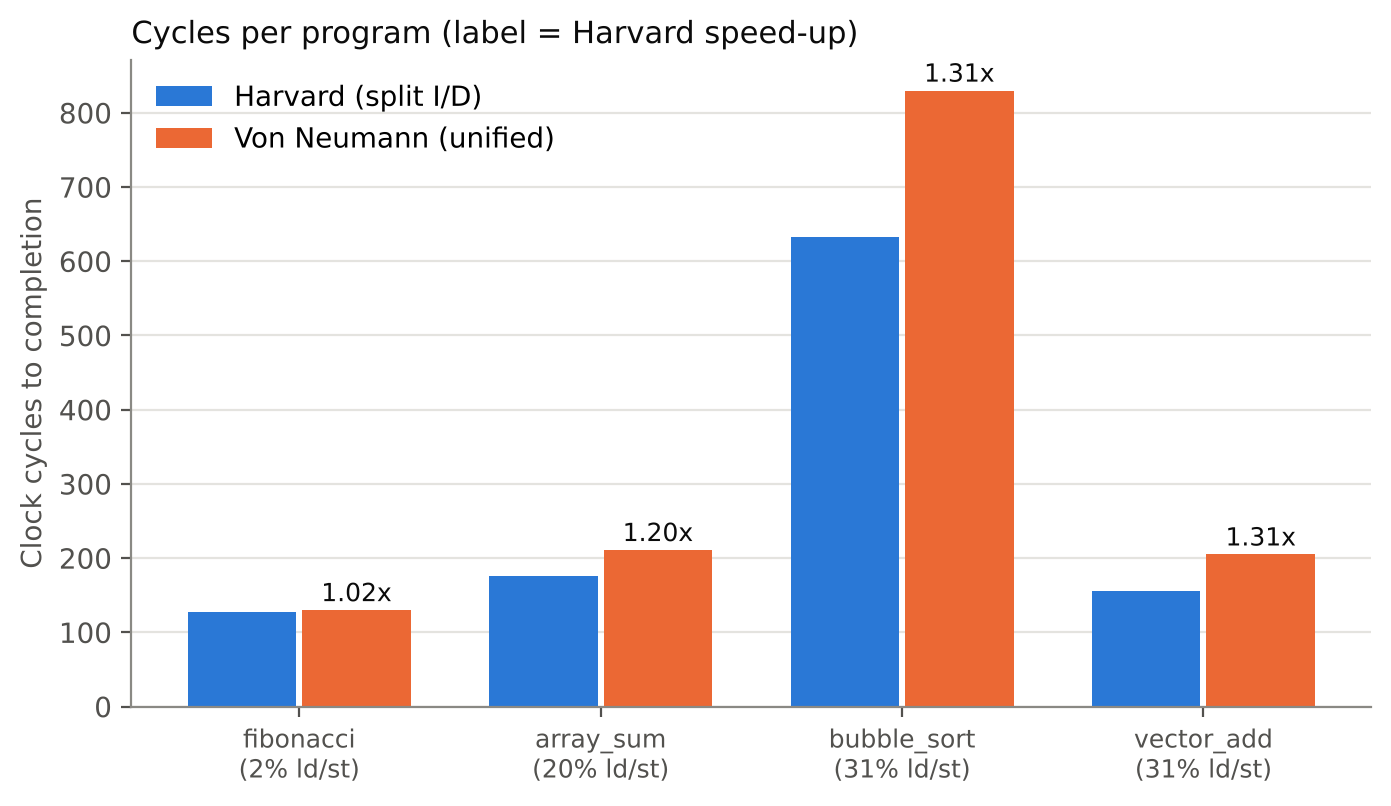
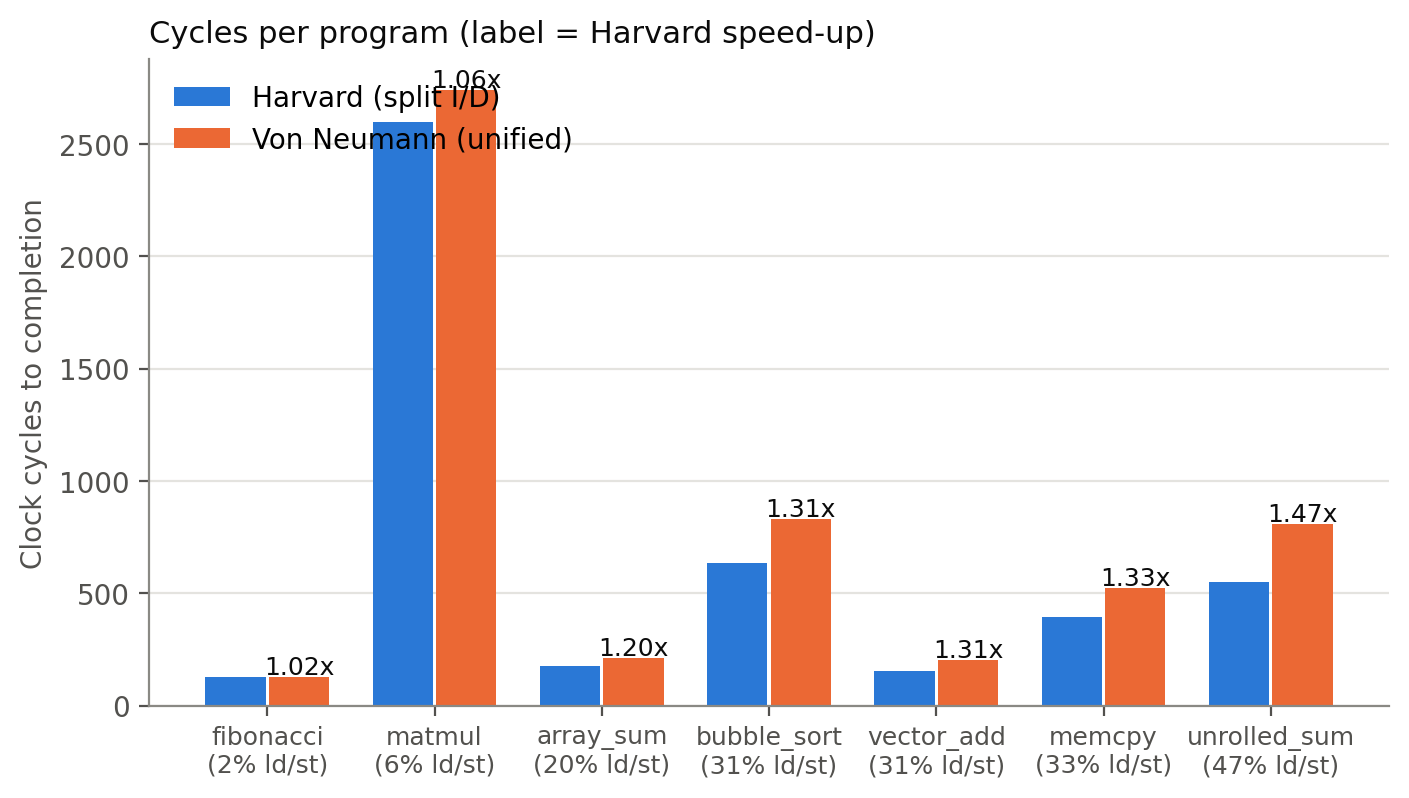
Add Phase 2 figures and waveform plots

diff --git a/docs/make_figures_phase2.py b/docs/make_figures_phase2.py
@@ -1,0 +1,293 @@
+#!/usr/bin/env python3
+"""make_figures_phase2.py - figures for the Phase II memory-hierarchy study.
+
+    python3 sim/run_hier.py && python3 docs/make_figures_phase2.py
+
+Outputs (docs/figures/):
+    block_hierarchy.png      modified-Harvard hierarchy vs unified-cache baseline
+    cpi_vs_latency.png       mean CPI of the 4 organisations vs main-memory latency
+    stall_breakdown.png      where the cycles go (LAT=8), unified vs split
+    l1_size_sweep.png        miss rate + CPI vs L1 capacity
+    line_size_sweep.png      miss rate + CPI vs line size (fixed capacity)
+    wave_hierarchy.png       split-L1 waveform: refills, write-buffer drain, overlap
+"""
+import csv
+import math
+import os
+from collections import defaultdict
+
+import matplotlib
+matplotlib.use("Agg")
+import matplotlib.pyplot as plt
+from matplotlib.patches import FancyBboxPatch
+from vcdvcd import VCDVCD
+
+from make_figures import box, arrow, BLUE, ORANGE, INK, INK2, MUTED, GRID, FIG, ROOT
+
+TEAL, PURPLE = "#1f9e89", "#8a5cc2"
+plt.rcParams["text.parse_math"] = False          # labels contain "I$" / "D$"
+ARCH = {   # key: (label, colour, marker)
+    "split":      ("Split L1 I$ + D$ (modified Harvard)", BLUE, "o"),
+    "unified":    ("Unified L1 cache (Von Neumann)", ORANGE, "s"),
+    "split_flat": ("Split ports, no cache", TEAL, "^"),
+    "vn_flat":    ("Unified port, no cache", PURPLE, "D"),
+}
+OUT = os.path.join(ROOT, "sim", "out", "hier")
+rows = list(csv.DictReader(open(os.path.join(ROOT, "docs", "results_hier.csv"))))
+for r in rows:
+    for k, v in r.items():
+        try:
+            r[k] = int(v)
+        except ValueError:
+            try:
+                r[k] = float(v)
+            except ValueError:
+                pass
+PROGS = sorted({r["program"] for r in rows})
+
+
+def gmean(xs):
+    return math.exp(sum(math.log(x) for x in xs) / len(xs))
+
+
+def pick(arch, lat, sets, line):
+    return [r for r in rows if r["arch"] == arch and r["lat"] == lat and r["sets"] == sets
+            and r["line"] == line]
+
+
+def style(ax, title, ylabel, xlabel):
+    ax.spines[["top", "right"]].set_visible(False)
+    ax.yaxis.grid(True, color=GRID, lw=0.8)
+    ax.set_axisbelow(True)
+    ax.set_title(title, loc="left", fontsize=11, color=INK)
+    ax.set_ylabel(ylabel)
+    ax.set_xlabel(xlabel)
+
+
+def save(fig, name):
+    fig.savefig(os.path.join(FIG, name), dpi=200, bbox_inches="tight", facecolor="white")
+    plt.close(fig)
+
+
+# --------------------------------------------------------------- block diagram
+def block_hierarchy():
+    fig, ax = plt.subplots(figsize=(10, 6.2))
+    ax.set_xlim(0, 12.6); ax.set_ylim(0, 7.8); ax.axis("off")
+    # ---- (a) proposed
+    ax.text(0.2, 7.5, "(a) Proposed: modified Harvard hierarchy (modharvard_top.v)",
+            fontsize=10, fontweight="bold", color=BLUE)
+    box(ax, 0.3, 4.5, 2.2, 2.4, "cpu_core", "RV32I, single-cycle", fc="#f4f7fc", ec=BLUE)
+    box(ax, 3.4, 5.9, 2.6, 1.0, "L1 I-cache", "256 B, read-only", fc="#eef4fc", ec=BLUE)
+    box(ax, 3.4, 4.5, 2.6, 1.0, "Decoder + R/W ctrl", "address map")
+    box(ax, 6.8, 4.5, 2.2, 1.0, "L1 D-cache", "256 B, WT + buffer", fc="#eef4fc", ec=BLUE)
+    box(ax, 6.8, 3.2, 2.2, 0.9, "MMIO", "uncached")
+    box(ax, 9.6, 5.25, 1.3, 1.0, "Arbiter", "I first")
+    box(ax, 11.2, 4.95, 1.3, 1.6, "Main", "memory")
+    ax.text(11.85, 4.75, "8 KB, LAT", ha="center", fontsize=8, color=INK2)
+    arrow(ax, 2.5, 6.4, 3.4, 6.4, "I-port", BLUE, both=True)
+    arrow(ax, 2.5, 5.0, 3.4, 5.0, "D-port", INK2, both=True)
+    arrow(ax, 6.0, 5.0, 6.8, 5.0, "", INK2, both=True)
+    ax.plot([4.7, 4.7], [4.5, 3.65], color=INK2, lw=1.6)
+    arrow(ax, 4.7, 3.65, 6.8, 3.65, "0x20xx", INK2, off=(0, 0.04))
+    arrow(ax, 6.0, 6.4, 9.6, 6.0, "I miss: line refill", BLUE, both=True, off=(0, 0.08))
+    arrow(ax, 9.0, 5.0, 9.6, 5.5, "", INK2, both=True)
+    ax.text(9.05, 4.65, "D miss /\nstore drain", fontsize=8, color=INK2, va="top")
+    arrow(ax, 10.9, 5.75, 11.2, 5.75, "", INK, both=True, lw=2.2)
+    ax.text(0.3, 2.75, "Hits in both L1s happen in the SAME cycle; instruction and data traffic meet "
+            "only at the shared level, on misses and write-buffer drains.", fontsize=8.5, color=INK)
+    # ---- (b) baseline
+    ax.text(0.2, 2.25, "(b) Baseline: Von Neumann hierarchy (unicache_top.v)",
+            fontsize=10, fontweight="bold", color=ORANGE)
+    box(ax, 0.3, 0.2, 2.2, 1.7, "cpu_core", "same RTL", fc="#fdf3ee", ec=ORANGE)
+    box(ax, 3.4, 0.4, 2.6, 1.3, "FETCH/DATA", "port arbiter + IR", fc="#fff8f4", ec=ORANGE)
+    box(ax, 6.8, 0.4, 2.4, 1.3, "Unified L1", "512 B, one port", fc="#fdf3ee", ec=ORANGE)
+    box(ax, 10.2, 0.4, 2.3, 1.3, "Main memory", "same 8 KB, LAT", fc="#f4f4f2")
+    arrow(ax, 2.5, 1.4, 3.4, 1.4, "I-port", ORANGE, both=True)
+    arrow(ax, 2.5, 0.7, 3.4, 0.7, "D-port", ORANGE, both=True)
+    arrow(ax, 6.0, 1.05, 6.8, 1.05, "1 port", ORANGE, both=True, lw=2.2)
+    arrow(ax, 9.2, 1.05, 10.2, 1.05, "", INK, both=True, lw=2.2)
+    ax.text(3.4, 0.05, "+1 cycle per load/store (structural hazard); code and data share cache lines",
+            fontsize=8, color=INK2)
+    save(fig, "block_hierarchy.png")
+
+
+# --------------------------------------------------------------- latency sweep
+def cpi_vs_latency():
+    fig, ax = plt.subplots(figsize=(8, 4.4))
+    lats = [1, 2, 4, 8, 16]
+    for a in ("vn_flat", "split_flat", "unified", "split"):
+        label, col, mk = ARCH[a]
+        ys = [gmean([r["cpi"] for r in pick(a, L, 16, 4)]) for L in lats]
+        ax.plot(lats, ys, color=col, lw=2, marker=mk, ms=8, mec="white", mew=1.5, label=label)
+        if a in ("split", "unified"):
+            ax.text(16.9, ys[-1], f"{ys[-1]:.2f}", va="center", fontsize=9, color=INK)
+        elif a == "vn_flat":
+            ax.text(16.9, ys[-1], f"~{ys[-1]:.0f}", va="center", fontsize=9, color=INK)
+    ax.axhline(1.0, color=MUTED, lw=1, ls="--")
+    ax.text(1.05, 1.08, "ideal Phase I Harvard, CPI = 1", fontsize=8, color=INK2)
+    ax.set_xscale("log", base=2); ax.set_yscale("log", base=2)
+    ax.set_xticks(lats); ax.set_xticklabels(lats)
+    ax.set_yticks([1, 2, 4, 8, 16]); ax.set_yticklabels(["1", "2", "4", "8", "16"])
+    ax.set_xlim(0.9, 20)
+    style(ax, "Mean CPI (geo-mean of 7 programs) vs main-memory latency",
+          "CPI (log scale)", "main-memory first-word latency LAT (cycles, log scale)")
+    ax.legend(frameon=False, fontsize=8.5, loc="upper left")
+    save(fig, "cpi_vs_latency.png")
+
+
+# --------------------------------------------------------------- stall breakdown
+def stall_breakdown():
+    cats = [("instret", "useful (retire)", "#c9c8c3"), ("st_imiss", "I-miss stall", BLUE),
+            ("st_dmiss", "D-miss stall", TEAL), ("st_wbuf", "write-buffer stall", PURPLE),
+            ("st_struct", "port conflict (ld/st)", ORANGE)]
+    fig, ax = plt.subplots(figsize=(10, 4.6))
+    w = 0.38
+    for i, p in enumerate(PROGS):
+        for j, a in enumerate(("unified", "split")):
+            r = pick(a, 8, 16, 4)
+            r = next(x for x in r if x["program"] == p)
+            x = i + (j - 0.5) * (w + 0.04)
+            bottom = 0
+            for k, _, col in cats:
+                v = r[k] / r["instret"]
+                ax.bar(x, v, w, bottom=bottom, color=col, edgecolor="white", linewidth=1)
+                bottom += v
+            ax.text(x, bottom + 0.05, "U" if a == "unified" else "S", ha="center",
+                    fontsize=8, color=INK2)
+    for _, lab, col in cats:
+        ax.bar(0, 0, color=col, label=lab)
+    ax.set_xticks(range(len(PROGS))); ax.set_xticklabels(PROGS, fontsize=9)
+    style(ax, "Cycles per instruction, broken down by cause (LAT = 8; U = unified 512 B, S = split 2x256 B)",
+          "cycles / instruction", "")
+    ax.legend(frameon=False, fontsize=8.5, ncol=5, loc="upper center", bbox_to_anchor=(0.5, -0.1))
+    save(fig, "stall_breakdown.png")
+
+
+# --------------------------------------------------------------- size / line sweeps
+def sweep(kind):
+    fig, (a1, a2) = plt.subplots(1, 2, figsize=(10, 4))
+    if kind == "size":
+        xs = [2, 4, 8, 16, 32, 64]
+        key = lambda s: (8, s, 4)
+        xl = [f"{2 * s * 16}" for s in xs]
+        xlabel = "total L1 capacity (bytes)"
+    else:
+        xs = [1, 2, 4, 8, 16]
+        key = lambda l: (8, 64 // l, l)
+        xl = [str(4 * l) for l in xs]
+        xlabel = "line size (bytes), capacity fixed at 512 B total"
+    for a in ("unified", "split"):
+        label, col, mk = ARCH[a]
+        mr = [gmean([max(r["miss_rate"], 1e-4) for r in pick(a, *key(x))]) * 100 for x in xs]
+        cpi = [gmean([r["cpi"] for r in pick(a, *key(x))]) for x in xs]
+        a1.plot(range(len(xs)), mr, color=col, lw=2, marker=mk, ms=8, mec="white", mew=1.5, label=label)
+        a2.plot(range(len(xs)), cpi, color=col, lw=2, marker=mk, ms=8, mec="white", mew=1.5, label=label)
+        a2.text(len(xs) - 0.85, cpi[-1], f"{cpi[-1]:.2f}", va="center", fontsize=9, color=INK)
+    for ax, t, y in ((a1, "Read miss rate (geo-mean)", "miss rate (%)"),
+                     (a2, "CPI (geo-mean), LAT = 8", "CPI")):
+        ax.set_xticks(range(len(xs))); ax.set_xticklabels(xl)
+        style(ax, t, y, xlabel)
+    a1.legend(frameon=False, fontsize=8.5)
+    save(fig, "l1_size_sweep.png" if kind == "size" else "line_size_sweep.png")
+
+
+# --------------------------------------------------------------- waveform
+def wave_hierarchy(start=118, n=40, name="vector_add"):
+    vcd = VCDVCD(os.path.join(OUT, f"{name}_split_L4.vcd"), store_tvs=True)
+    lst = {}
+    for line in open(os.path.join(ROOT, "sw", "build", f"{name}.lst")):
+        pc, _, txt = line.rstrip("\n").split("  ", 2)
+        lst[int(pc, 16)] = txt
+    p = "tb_hier.dut."
+    names = vcd.signals
+
+    def get(sig, t):
+        for nm in names:
+            if nm == sig or nm.split("[")[0] == sig:
+                v = vcd[nm][t]
+                return int(v.replace("x", "0").replace("z", "0"), 2)
+        raise KeyError(sig)
+
+    period, t0 = 10_000, 15_000
+    times = [t0 + (start + k) * period + 6_000 for k in range(n)]
+    D = defaultdict(list)
+    for t in times:
+        stall = get(p + "core_stall", t)
+        i_ref = get(p + "i_refilling", t)
+        istall = get(p + "i_stall", t)
+        pc = get(p + "i_addr", t)
+        D["PC"].append(pc)
+        D["instruction"].append(None if istall else lst.get(pc, "?").split()[0])
+        D["I$ hit"].append(0 if istall else 1)
+        rd, wr = get(p + "d_rd", t), get(p + "d_wr", t)
+        D["D$ access"].append(("lw" if rd else "sw") if (rd or wr) and not istall else None)
+        D["D$ hit"].append(1 if (rd or wr) and not istall and get(p + "d_hit", t) else 0)
+        D["core stall"].append(stall)
+        busy = get(p + "m_busy", t)
+        owner = get(p + "u_arb.owner_i", t)
+        if not busy:
+            D["shared memory"].append(None)
+        elif owner:
+            D["shared memory"].append("I refill")
+        elif get(p + "d_draining", t):
+            D["shared memory"].append("D write")
+        else:
+            D["shared memory"].append("D refill")
+    rows_ = [("clk", None), ("PC", "bus"), ("instruction", "bus"), ("I$ hit", "bit"),
+             ("D$ access", "bus"), ("D$ hit", "bit"), ("shared memory", "bus"), ("core stall", "bit")]
+    nr = len(rows_)
+    fig, ax = plt.subplots(figsize=(13, 0.55 * nr + 1))
+    ax.set_xlim(-3.2, n); ax.set_ylim(-0.6, nr - 0.2); ax.axis("off")
+    for c in range(n + 1):
+        ax.axvline(c, color=GRID, lw=0.6, zorder=0)
+    fills = {"I refill": "#dbe8f8", "D refill": "#d6efe9", "D write": "#e8def4"}
+    for i, (label, kind) in enumerate(rows_):
+        y = nr - 1 - i
+        ax.text(-0.25, y + 0.33, label, ha="right", va="center", fontsize=9, color=INK)
+        if label == "clk":
+            xs, ys = [], []
+            for c in range(n):
+                xs += [c, c + 0.5, c + 0.5, c + 1]; ys += [y + 0.6, y + 0.6, y, y]
+            ax.plot(xs, ys, color=INK2, lw=1)
+            continue
+        vals = D[label]
+        if kind == "bit":
+            col = ORANGE if label == "core stall" else (TEAL if label == "D$ hit" else BLUE)
+            xs, ys = [], []
+            for c, v in enumerate(vals):
+                xs += [c, c + 1]; ys += [y + 0.6 * v] * 2
+                if v:
+                    ax.fill_between([c, c + 1], y, y + 0.6, color=col, alpha=0.15, lw=0)
+            ax.plot(xs, ys, color=col, lw=1.8)
+            continue
+        c = 0
+        while c < n:
+            v, e = vals[c], c
+            while e + 1 < n and vals[e + 1] == v:
+                e += 1
+            if v is not None:
+                x0, x1 = c + 0.06, e + 1 - 0.06
+                ax.add_patch(FancyBboxPatch((x0, y + 0.05), x1 - x0, 0.55,
+                             boxstyle="round,pad=0,rounding_size=0.12",
+                             fc=fills.get(v, "#ffffff"), ec=INK2, lw=0.9))
+                txt = f"{v:02x}" if isinstance(v, int) else str(v)
+                ax.text((x0 + x1) / 2, y + 0.33, txt, ha="center", va="center",
+                        fontsize=7 if label == "PC" else 7.5, color=INK, clip_on=True)
+            c = e + 1
+    for c in range(0, n, 2):
+        ax.text(c + 0.5, -0.45, str(start + c), ha="center", fontsize=7, color=MUTED)
+    ax.text(-0.25, -0.45, "cycle", ha="right", fontsize=7, color=MUTED)
+    ax.set_title("Split L1 hierarchy, vector_add, LAT = 4: line refills stall the core; "
+                 "the store drains in the background while I$/D$ hits continue",
+                 loc="left", fontsize=10.5, color=INK, pad=6)
+    save(fig, "wave_hierarchy.png")
+
+
+if __name__ == "__main__":
+    block_hierarchy()
+    cpi_vs_latency()
+    stall_breakdown()
+    sweep("size")
+    sweep("line")
+    wave_hierarchy()
+    print("phase II figures written to", FIG)
